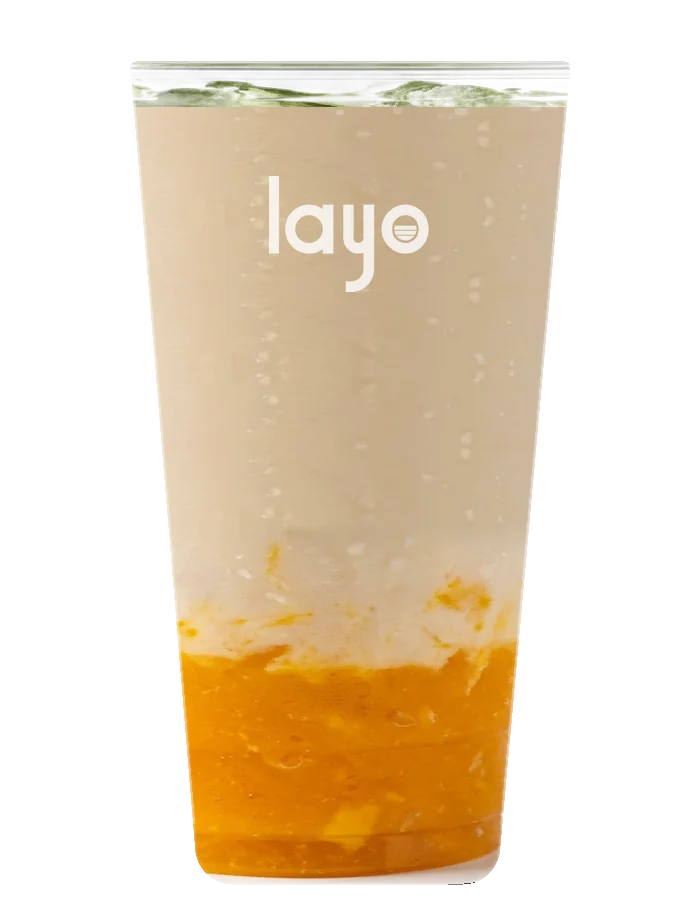
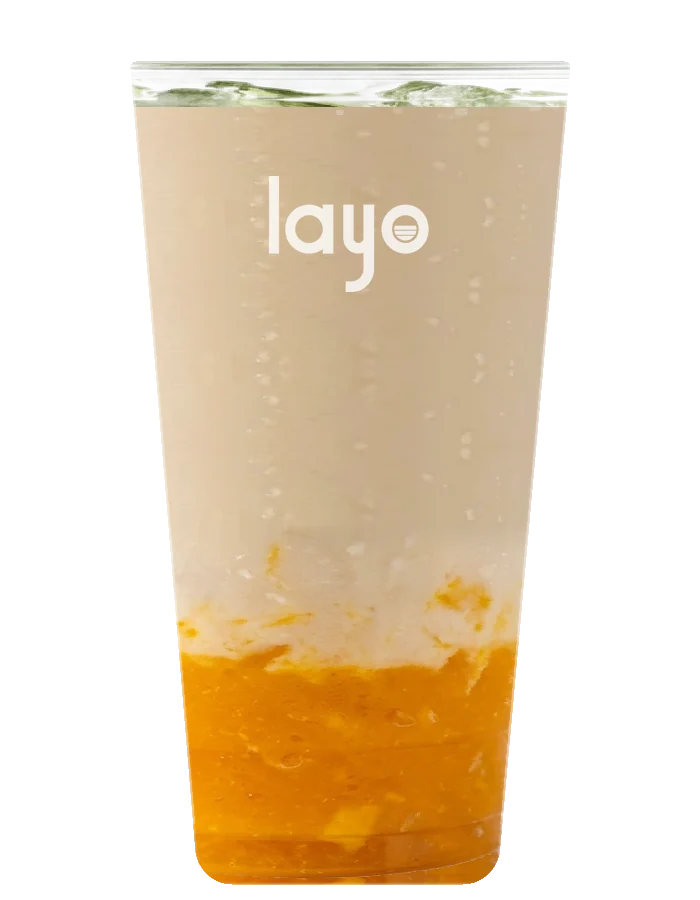
Layo: drink fills the cup to the very bottom on every stage
Claude-Session: https://claude.ai/code/session_01UTJuAjWUwzzxbHTx65gk4g

Changed region(s): [[0.3, 0.9333, 0.72, 0.9956]]

diff --git a/tools/build_live.py b/tools/build_live.py
@@ -191,6 +191,15 @@ for k,p in SRC.items():
     cy=lt+ (mb-lt)*.42; l,r=Fw[int(cy)]
     for n,im in imgs.items():
         print_on(im,(l+r)/2,cy,r-l)
+        if n!='empty' and k!='blueberry':   # last rows: anything that is not the drink (pale base, dark rim line) takes the drink from just above
+            a=np.asarray(im).copy(); r0=RB-34; ref=a[r0,:,:3][a[r0,:,3]>200].astype(int).mean(0)
+            for y in range(r0+1, RB+1):
+                m_=a[y,:,3]>0
+                if not m_.any(): continue
+                px=a[y,:,:3].astype(int); bad=m_&((np.abs(px-ref).mean(1)>38)|(px.mean(1)<70))
+                if bad.any():
+                    src=r0-((y-r0)%12); a[y,bad,:3]=a[src,bad,:3]
+            im=Image.fromarray(a)
         im.save(f'{OUT}{k}-{n}.webp',quality=86,method=6)
     meta[k]={'top':top,'bot':bot,'liquid':lt,'matcha':mb,'fruit':ft}
 json.dump(meta,open(OUT+'meta.json','w')); print(meta)
